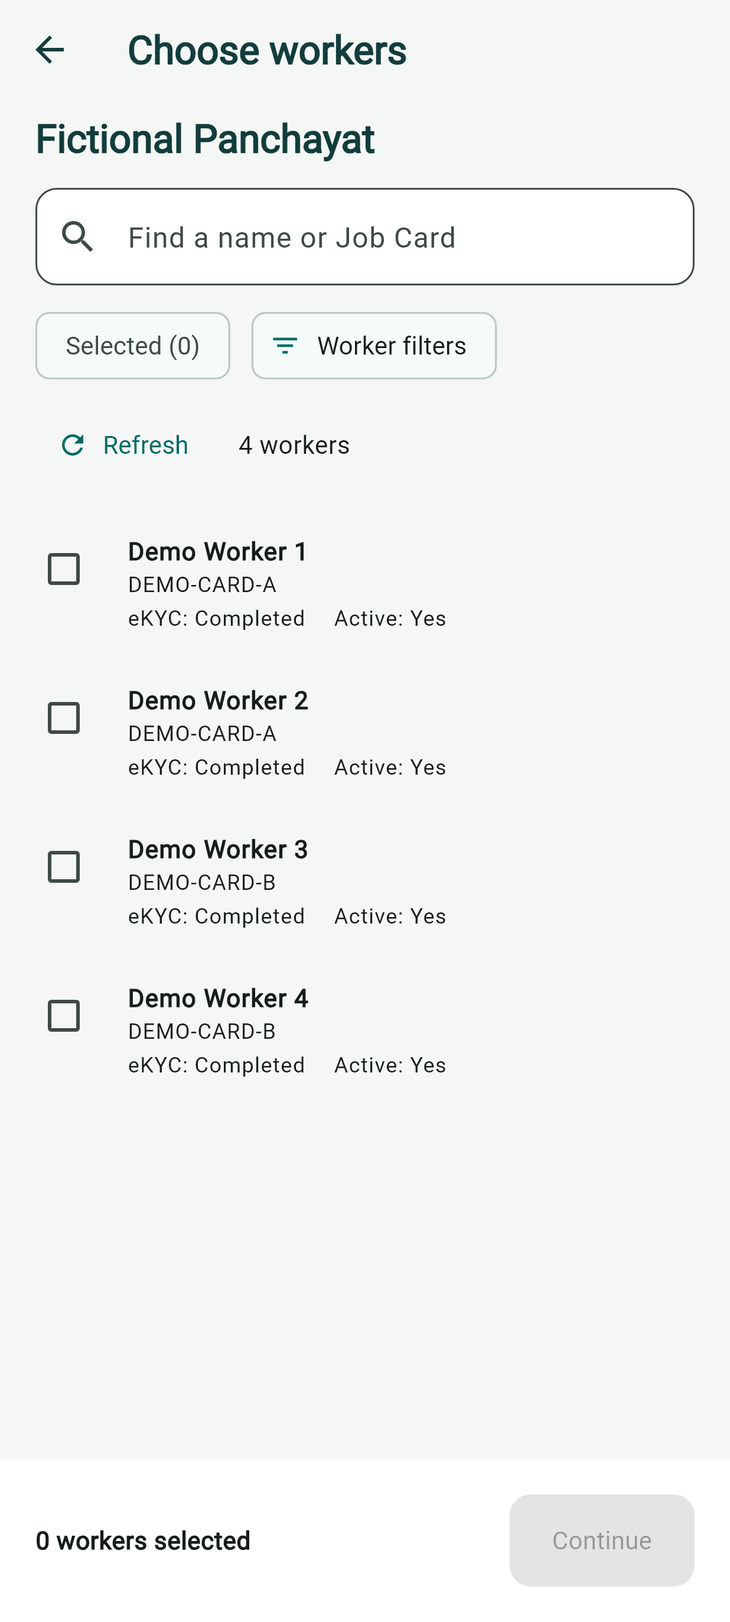
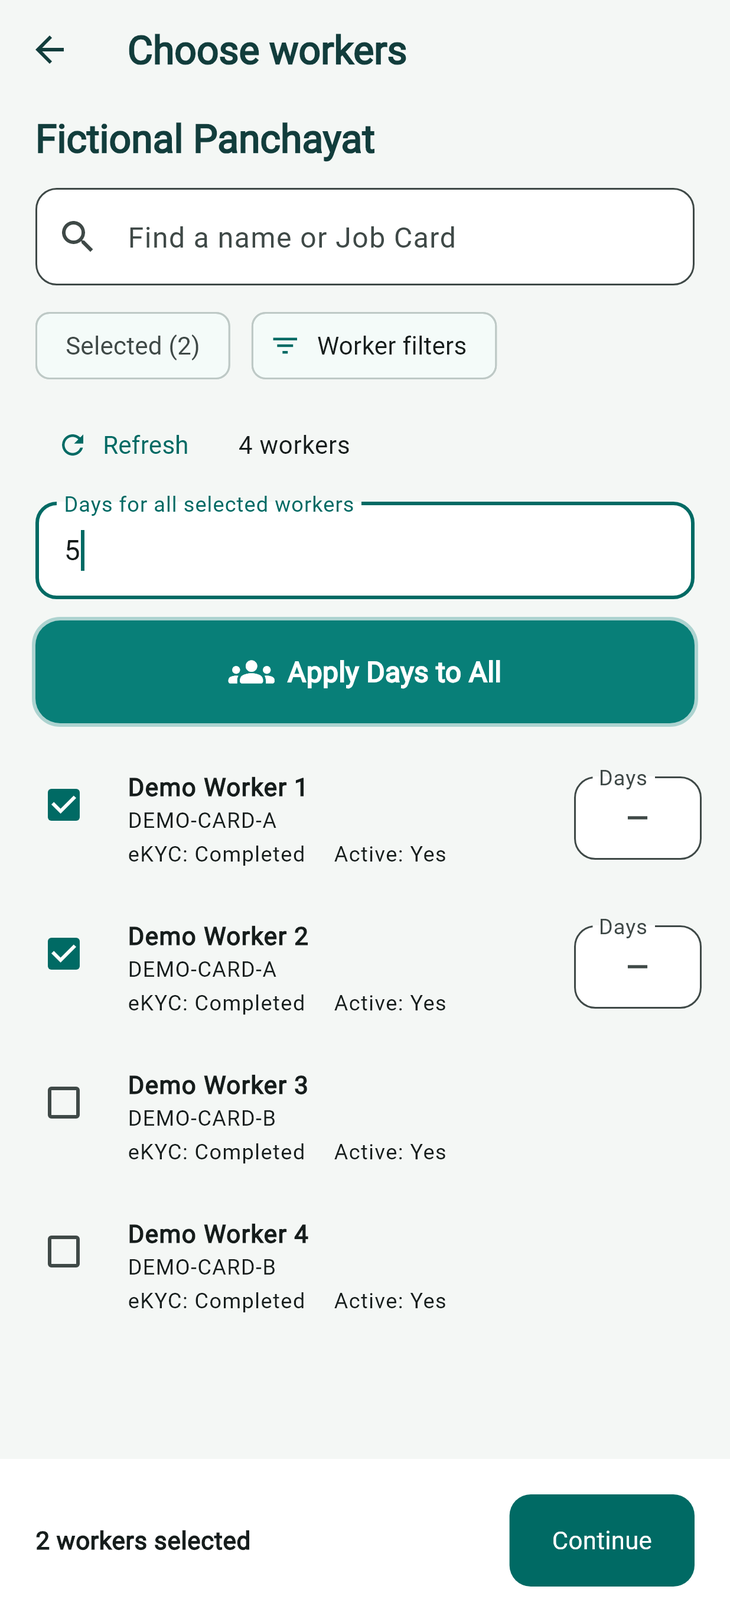
Refresh app showcase, 15 fictional previews and plain-English guides

diff --git a/README.md b/README.md
@@ -1,21 +1,29 @@
 # VBGRAMG DEO Assistant & Worker Demand
 
-**From a worker request to a checked Work Demand, with the office in control.**
+**Prepare worker requests on Android. Check Work Demands and manage records on Windows or Linux.**
 
 VBGRAMG DEO Assistant helps Data Entry Operators (DEOs) organise Job Cards, workers, work requests and Muster Roll reports. The companion **Worker Demand** Android app lets DEOs and Panchayat Secretaries prepare requests from their assigned areas.
 
-[Get the apps](https://changtey.github.io/Worker-Demand-releases/) · [User guide](docs/USER_GUIDE.md) · [Features](docs/FEATURES.md) · [Latest changes](docs/LATEST_CHANGES.md)
+[Get the apps](#download) · [User guide](docs/USER_GUIDE.md) · [Features](docs/FEATURES.md) · [Latest changes](docs/LATEST_CHANGES.md)
+
+| For the office | For the phone |
+| --- | --- |
+| **VBGRAMG DEO Assistant · Windows and Linux** | **Worker Demand · Android** |
+| Find Job Cards, check workers and dates, review requests and prepare attendance reports. | Choose assigned workers, enter their requested days and send a request to the office. |
+| Use your own office account and the portal's current area lists. | Use the private login code assigned by your DEO. |
 
 ## Download
 
-Published downloads: desktop **1.4.11**, Android **1.4.11**.
+Published downloads: desktop **1.4.13**, Android **1.4.13**.
 
-- [Windows 64-bit](https://github.com/Changtey/Worker-Demand-releases/releases/download/v1.4.11/VBGRAMG-DEO-Assistant-1.4.11-Setup.exe)
-- [Linux Debian / Ubuntu](https://github.com/Changtey/Worker-Demand-releases/releases/download/v1.4.11/VBGRAMG-DEO-Assistant-1.4.11-Linux-x64.deb)
-- [Linux AppImage](https://github.com/Changtey/Worker-Demand-releases/releases/download/v1.4.11/VBGRAMG-DEO-Assistant-1.4.11-Linux-x64.AppImage)
-- [Android APK](https://github.com/Changtey/Worker-Demand-releases/releases/download/v1.4.11/Worker-Demand-1.4.11.apk)
+| Device | Download |
+| --- | --- |
+| Windows 64-bit | [Download 1.4.13](https://github.com/Changtey/Worker-Demand-releases/releases/download/v1.4.13/VBGRAMG-DEO-Assistant-1.4.13-Setup.exe) |
+| Linux Debian / Ubuntu | [Download 1.4.13](https://github.com/Changtey/Worker-Demand-releases/releases/download/v1.4.13/VBGRAMG-DEO-Assistant-1.4.13-Linux-x64.deb) |
+| Linux AppImage | [Download 1.4.13](https://github.com/Changtey/Worker-Demand-releases/releases/download/v1.4.13/VBGRAMG-DEO-Assistant-1.4.13-Linux-x64.AppImage) |
+| Android APK | [Download 1.4.13](https://github.com/Changtey/Worker-Demand-releases/releases/download/v1.4.13/Worker-Demand-1.4.13.apk) |
 
-[Release notes and checksums](https://github.com/Changtey/Worker-Demand-releases/releases/tag/v1.4.11).
+[Release notes and checksums](https://github.com/Changtey/Worker-Demand-releases/releases/tag/v1.4.13).
 
 Check the linked release notes for tested systems and remaining limits. Windows publisher signing is still pending for the current test release.
 
@@ -32,35 +40,35 @@ The app follows the portal's offered **State → District → Block → Panchaya
 
 ## See the app
 
-**Current source preview · 2026-10-23.** Desktop source 1.4.12; Android source 1.4.11. The desktop pictures include newer changes that are not in the downloads above. The same Android version number does not prove that a source screen matches an older APK.
+**Screens captured for desktop 1.4.13 and Android 1.4.13 · 2026-10-23.**
 
-All 15 pictures use fictional records. **Android** pictures show the current Android app widgets at phone size. **Desktop preview** pictures show the current desktop app in a narrow layout; they do not imply that desktop tools are available in Android. Open any picture for the full size. These are screen previews, not a live account or official submission.
+All 15 pictures use fictional records. **Android** pictures show the current Android screens at phone size. **Desktop preview** pictures show the current desktop app in a narrow window; they do not mean that desktop tools are available in Android. Open any picture for the full size. The pictures do not show a real office account or an official submission.
 
 <table>
 <tr>
-<td width="33%" valign="top"><b>Your Android home</b><br><sub>Android</sub><br><a href="docs/screenshots/01-dashboard.png"><img src="docs/screenshots/01-dashboard.png" width="260" alt="Android: Your Android home"></a><br>See assigned areas and start a work request.</td>
-<td width="33%" valign="top"><b>Personal Android access</b><br><sub>Desktop preview</sub><br><a href="docs/screenshots/02-android-login.png"><img src="docs/screenshots/02-android-login.png" width="260" alt="Desktop preview: Personal Android access"></a><br>Choose the areas available to your DEO account. No login code is shown.</td>
-<td width="33%" valign="top"><b>Secretary access</b><br><sub>Desktop preview</sub><br><a href="docs/screenshots/03-secretary-access.png"><img src="docs/screenshots/03-secretary-access.png" width="260" alt="Desktop preview: Secretary access"></a><br>Assign a Panchayat or Village and create a Secretary login code.</td>
+<td width="33%" valign="top"><b>01. Your Android home</b><br><sub>Android</sub><br><a href="docs/screenshots/01-dashboard.png"><img src="docs/screenshots/01-dashboard.png" width="260" alt="Android: 01. Your Android home"></a><br>See assigned areas and start a work request.</td>
+<td width="33%" valign="top"><b>02. Personal Android access</b><br><sub>Desktop preview</sub><br><a href="docs/screenshots/02-android-login.png"><img src="docs/screenshots/02-android-login.png" width="260" alt="Desktop preview: 02. Personal Android access"></a><br>Choose the areas available to your DEO account. No login code is shown.</td>
+<td width="33%" valign="top"><b>03. Secretary access</b><br><sub>Desktop preview</sub><br><a href="docs/screenshots/03-secretary-access.png"><img src="docs/screenshots/03-secretary-access.png" width="260" alt="Desktop preview: 03. Secretary access"></a><br>Assign a Panchayat or Village and create a Secretary login code.</td>
 </tr>
 <tr>
-<td width="33%" valign="top"><b>Browser controls</b><br><sub>Desktop preview</sub><br><a href="docs/screenshots/04-integrated-browser.png"><img src="docs/screenshots/04-integrated-browser.png" width="260" alt="Desktop preview: Browser controls"></a><br>Open VBGRAMG from the desktop app. The official website is not pictured.</td>
-<td width="33%" valign="top"><b>Review a phone request</b><br><sub>Android</sub><br><a href="docs/screenshots/05-android-work-demand.png"><img src="docs/screenshots/05-android-work-demand.png" width="260" alt="Android: Review a phone request"></a><br>Review workers and their own requested days before sending to the DEO.</td>
-<td width="33%" valign="top"><b>Secretary request history</b><br><sub>Android</sub><br><a href="docs/screenshots/06-secretary-work-demand.png"><img src="docs/screenshots/06-secretary-work-demand.png" width="260" alt="Android: Secretary request history"></a><br>Find requests and follow the status returned by the office.</td>
+<td width="33%" valign="top"><b>04. Browser controls</b><br><sub>Desktop preview</sub><br><a href="docs/screenshots/04-integrated-browser.png"><img src="docs/screenshots/04-integrated-browser.png" width="260" alt="Desktop preview: 04. Browser controls"></a><br>Open VBGRAMG from the desktop app. The official website is not pictured.</td>
+<td width="33%" valign="top"><b>05. Review a phone request</b><br><sub>Android</sub><br><a href="docs/screenshots/05-android-work-demand.png"><img src="docs/screenshots/05-android-work-demand.png" width="260" alt="Android: 05. Review a phone request"></a><br>Review workers and their own requested days before sending to the DEO.</td>
+<td width="33%" valign="top"><b>06. Secretary request history</b><br><sub>Android</sub><br><a href="docs/screenshots/06-secretary-work-demand.png"><img src="docs/screenshots/06-secretary-work-demand.png" width="260" alt="Android: 06. Secretary request history"></a><br>Find requests and follow the status returned by the office.</td>
 </tr>
 <tr>
-<td width="33%" valign="top"><b>Job Card households</b><br><sub>Desktop preview</sub><br><a href="docs/screenshots/07-job-card-holders.png"><img src="docs/screenshots/07-job-card-holders.png" width="260" alt="Desktop preview: Job Card households"></a><br>Find household heads and open the members of a Job Card. Swipe the table for more columns.</td>
-<td width="33%" valign="top"><b>Choose workers</b><br><sub>Android</sub><br><a href="docs/screenshots/08-worker-list.png"><img src="docs/screenshots/08-worker-list.png" width="260" alt="Android: Choose workers"></a><br>Search the assigned worker list and review saved checks.</td>
-<td width="33%" valign="top"><b>Worker filters</b><br><sub>Desktop preview</sub><br><a href="docs/screenshots/09-worker-search.png"><img src="docs/screenshots/09-worker-search.png" width="260" alt="Desktop preview: Worker filters"></a><br>Keep the list compact with saved status and identity check choices.</td>
+<td width="33%" valign="top"><b>07. Job Card households</b><br><sub>Desktop preview</sub><br><a href="docs/screenshots/07-job-card-holders.png"><img src="docs/screenshots/07-job-card-holders.png" width="260" alt="Desktop preview: 07. Job Card households"></a><br>Find household heads and open the members of a Job Card. Swipe the table for more columns.</td>
+<td width="33%" valign="top"><b>08. Choose workers and days</b><br><sub>Android</sub><br><a href="docs/screenshots/08-worker-list.png"><img src="docs/screenshots/08-worker-list.png" width="260" alt="Android: 08. Choose workers and days"></a><br>Choose workers, enter days, then use the wide teal Apply Days to All button when their days are the same.</td>
+<td width="33%" valign="top"><b>09. Worker filters</b><br><sub>Desktop preview</sub><br><a href="docs/screenshots/09-worker-search.png"><img src="docs/screenshots/09-worker-search.png" width="260" alt="Desktop preview: 09. Worker filters"></a><br>Keep the list compact with saved status and identity check choices.</td>
 </tr>
 <tr>
-<td width="33%" valign="top"><b>Days and dates</b><br><sub>Desktop preview</sub><br><a href="docs/screenshots/10-work-demand-entry.png"><img src="docs/screenshots/10-work-demand-entry.png" width="260" alt="Desktop preview: Days and dates"></a><br>Set an Application Date, requested days and work dates.</td>
-<td width="33%" valign="top"><b>Check demand issues</b><br><sub>Desktop preview</sub><br><a href="docs/screenshots/11-check-demand.png"><img src="docs/screenshots/11-check-demand.png" width="260" alt="Desktop preview: Check demand issues"></a><br>See the worker and the reason when a demand needs attention.</td>
-<td width="33%" valign="top"><b>Review and send</b><br><sub>Desktop preview</sub><br><a href="docs/screenshots/12-worker-management.png"><img src="docs/screenshots/12-worker-management.png" width="260" alt="Desktop preview: Review and send"></a><br>Check the received list, then choose Submit to VBGRAMG. No separate Approve button.</td>
+<td width="33%" valign="top"><b>10. Days and dates</b><br><sub>Desktop preview</sub><br><a href="docs/screenshots/10-work-demand-entry.png"><img src="docs/screenshots/10-work-demand-entry.png" width="260" alt="Desktop preview: 10. Days and dates"></a><br>Set an Application Date, requested days and work dates.</td>
+<td width="33%" valign="top"><b>11. Check demand issues</b><br><sub>Desktop preview</sub><br><a href="docs/screenshots/11-check-demand.png"><img src="docs/screenshots/11-check-demand.png" width="260" alt="Desktop preview: 11. Check demand issues"></a><br>See the worker and the reason when a demand needs attention.</td>
+<td width="33%" valign="top"><b>12. Review and send</b><br><sub>Desktop preview</sub><br><a href="docs/screenshots/12-worker-management.png"><img src="docs/screenshots/12-worker-management.png" width="260" alt="Desktop preview: 12. Review and send"></a><br>Check the received list, then choose Submit to VBGRAMG. No separate Approve button.</td>
 </tr>
 <tr>
-<td width="33%" valign="top"><b>Muster Roll Reports</b><br><sub>Desktop preview</sub><br><a href="docs/screenshots/13-muster-reports.png"><img src="docs/screenshots/13-muster-reports.png" width="260" alt="Desktop preview: Muster Roll Reports"></a><br>Choose Panchayats and Villages for the official attendance reports.</td>
-<td width="33%" valign="top"><b>Your menus</b><br><sub>Desktop preview</sub><br><a href="docs/screenshots/14-settings.png"><img src="docs/screenshots/14-settings.png" width="260" alt="Desktop preview: Your menus"></a><br>Choose which menus appear and arrange the app for daily work.</td>
-<td width="33%" valign="top"><b>Your Android account</b><br><sub>Android</sub><br><a href="docs/screenshots/15-my-account.png"><img src="docs/screenshots/15-my-account.png" width="260" alt="Android: Your Android account"></a><br>Check your role and assigned area, or sign out of the phone.</td>
+<td width="33%" valign="top"><b>13. Muster Roll Reports</b><br><sub>Desktop preview</sub><br><a href="docs/screenshots/13-muster-reports.png"><img src="docs/screenshots/13-muster-reports.png" width="260" alt="Desktop preview: 13. Muster Roll Reports"></a><br>Choose Panchayats and Villages for the official attendance reports.</td>
+<td width="33%" valign="top"><b>14. Your menus</b><br><sub>Desktop preview</sub><br><a href="docs/screenshots/14-settings.png"><img src="docs/screenshots/14-settings.png" width="260" alt="Desktop preview: 14. Your menus"></a><br>Choose which menus appear and arrange the app for daily work.</td>
+<td width="33%" valign="top"><b>15. Your Android account</b><br><sub>Android</sub><br><a href="docs/screenshots/15-my-account.png"><img src="docs/screenshots/15-my-account.png" width="260" alt="Android: 15. Your Android account"></a><br>Check your role and assigned area, or sign out of the phone.</td>
 </tr>
 </table>
 
@@ -72,7 +80,15 @@ All 15 pictures use fictional records. **Android** pictures show the current And
 4. In Android, enter the assigned code, choose workers, enter days and dates, review, then choose **Submit request**. The request goes to the office.
 5. In desktop, open **Work Demand Request from Android/ Secretary** or **Work Demand Data Entry**. Check the workers and resolve the reported issues before the next portal action.
 
-The [step-by-step guide](docs/USER_GUIDE.md) explains the Browser, worker checks, reports and settings, including differences between the published release and newer previews.
+### Try one request
+
+**On Android:** Choose workers → enter the days → press **Apply Days to All** if everyone needs the same number → **Continue** → review → **Submit request**.
+
+**In the office:** Open the received request → check the area, workers and dates → **Check demand** → correct any issues → review before **Submit to VBGRAMG**.
+
+**For attendance reports:** Open **Muster Roll Reports** on desktop → choose Panchayats and Villages → review the report choices → save the finished PDF or Excel file.
+
+The [step-by-step guide](docs/USER_GUIDE.md) has short tutorials for the Browser, worker checks, Android access, requests, reports and settings.
 
 ## Know what has been saved
 
@@ -82,20 +98,13 @@ Use only areas and records you are authorised to access. Enter the portal Securi
 
 ## Current changes
 
-**Published 1.4.11**
+**Published 1.4.13**
 
-- Fixed an Electron startup error caused by a repeated CASTES line in an older packaged file. Rebuilt the app and its supporting program from one saved copy. Release builds now check that every desktop script opens correctly and matches that copy.
-- Made Work Demand worker matching and approval checks clearer. If a worker cannot be selected, the screen explains what to check. Approval remains visible when the worker review cannot be opened.
-- Made unknown worker days and unconfirmed shared Job Card days say “Not known” instead of showing only a dash.
-- Improved Muster Roll Reports. Category filters, page groups, search, sorting and saved choices are easier to review before making a PDF. Excel, PDF and print copies remain available.
-- Added searchable multi-select Panchayat and Village lists for Android access. Assigned areas can be selected and removed together, after one confirmation. Existing records are kept.
-- Updated Secretary login-code checks. Codes can use letters, numbers and symbols, with spaces inside the code. Codes must be 4 to 32 characters, and the same code cannot belong to two DEOs.
-
-**23 October 2026 source improvements**
-
-- Two actions for received requests: **Check demand → Submit to VBGRAMG**.
-- Compact worker filters and nearby search, list and send controls.
-- Safer area matching for received Android requests, using the full area path.
-- A new illustrated guide and 15 current app previews.
+- Made Android&#x27;s **Apply Days to All** button easier to find on both screens. It has a wide teal background, bold white words, a group picture and a larger touch area.
+- Made large desktop worker lists quicker to sort and search. Names, Job Cards and entered days keep their existing values.
+- Made Android read assigned worker lists more quickly, with the selected area first. Recent complete lists are reused, and changing accounts stops further reading for the old account.
+- Simplified received-request actions to **Check demand → Submit to VBGRAMG**. Worker filters and nearby search and send controls take less space.
+- Improved matching between Android requests and their full State, District, Block, Panchayat and Village details.
+- Added a refreshed illustrated guide with 15 numbered Android and desktop pictures, download links and short tutorials in plain English.
 
 See [latest changes and their release status](docs/LATEST_CHANGES.md). The public repository holds downloads and guides. App building files and office records stay on the owner's computer.

diff --git a/docs/LATEST_CHANGES.md b/docs/LATEST_CHANGES.md
@@ -2,43 +2,38 @@
 
 [Home](../README.md) · [User guide](USER_GUIDE.md) · [Features](FEATURES.md)
 
-**Current source preview · 2026-10-23.** Desktop source 1.4.12; Android source 1.4.11. The desktop pictures include newer changes that are not in the downloads above. The same Android version number does not prove that a source screen matches an older APK.
+**Screens captured for desktop 1.4.13 and Android 1.4.13 · 2026-10-23.**
 
 ## Published apps
 
-Published downloads: desktop **1.4.11**, Android **1.4.11**.
+Published downloads: desktop **1.4.13**, Android **1.4.13**.
 
-- [Windows 64-bit](https://github.com/Changtey/Worker-Demand-releases/releases/download/v1.4.11/VBGRAMG-DEO-Assistant-1.4.11-Setup.exe)
-- [Linux Debian / Ubuntu](https://github.com/Changtey/Worker-Demand-releases/releases/download/v1.4.11/VBGRAMG-DEO-Assistant-1.4.11-Linux-x64.deb)
-- [Linux AppImage](https://github.com/Changtey/Worker-Demand-releases/releases/download/v1.4.11/VBGRAMG-DEO-Assistant-1.4.11-Linux-x64.AppImage)
-- [Android APK](https://github.com/Changtey/Worker-Demand-releases/releases/download/v1.4.11/Worker-Demand-1.4.11.apk)
+| Device | Download |
+| --- | --- |
+| Windows 64-bit | [Download 1.4.13](https://github.com/Changtey/Worker-Demand-releases/releases/download/v1.4.13/VBGRAMG-DEO-Assistant-1.4.13-Setup.exe) |
+| Linux Debian / Ubuntu | [Download 1.4.13](https://github.com/Changtey/Worker-Demand-releases/releases/download/v1.4.13/VBGRAMG-DEO-Assistant-1.4.13-Linux-x64.deb) |
+| Linux AppImage | [Download 1.4.13](https://github.com/Changtey/Worker-Demand-releases/releases/download/v1.4.13/VBGRAMG-DEO-Assistant-1.4.13-Linux-x64.AppImage) |
+| Android APK | [Download 1.4.13](https://github.com/Changtey/Worker-Demand-releases/releases/download/v1.4.13/Worker-Demand-1.4.13.apk) |
 
-[Release notes and checksums](https://github.com/Changtey/Worker-Demand-releases/releases/tag/v1.4.11).
+[Release notes and checksums](https://github.com/Changtey/Worker-Demand-releases/releases/tag/v1.4.13).
 
 The linked release notes describe what was built, checked and published. A current source picture does not update an installed app or replace an installation file.
 
 ## Changes in this release
 
-**Published 1.4.11**
+**Published 1.4.13**
 
-- Fixed an Electron startup error caused by a repeated CASTES line in an older packaged file. Rebuilt the app and its supporting program from one saved copy. Release builds now check that every desktop script opens correctly and matches that copy.
-- Made Work Demand worker matching and approval checks clearer. If a worker cannot be selected, the screen explains what to check. Approval remains visible when the worker review cannot be opened.
-- Made unknown worker days and unconfirmed shared Job Card days say “Not known” instead of showing only a dash.
-- Improved Muster Roll Reports. Category filters, page groups, search, sorting and saved choices are easier to review before making a PDF. Excel, PDF and print copies remain available.
-- Added searchable multi-select Panchayat and Village lists for Android access. Assigned areas can be selected and removed together, after one confirmation. Existing records are kept.
-- Updated Secretary login-code checks. Codes can use letters, numbers and symbols, with spaces inside the code. Codes must be 4 to 32 characters, and the same code cannot belong to two DEOs.
+- Made Android&#x27;s **Apply Days to All** button easier to find on both screens. It has a wide teal background, bold white words, a group picture and a larger touch area.
+- Made large desktop worker lists quicker to sort and search. Names, Job Cards and entered days keep their existing values.
+- Made Android read assigned worker lists more quickly, with the selected area first. Recent complete lists are reused, and changing accounts stops further reading for the old account.
+- Simplified received-request actions to **Check demand → Submit to VBGRAMG**. Worker filters and nearby search and send controls take less space.
+- Improved matching between Android requests and their full State, District, Block, Panchayat and Village details.
+- Added a refreshed illustrated guide with 15 numbered Android and desktop pictures, download links and short tutorials in plain English.
 
-**23 October 2026 source improvements**
-
-- Two actions for received requests: **Check demand → Submit to VBGRAMG**.
-- Compact worker filters and nearby search, list and send controls.
-- Safer area matching for received Android requests, using the full area path.
-- A new illustrated guide and 15 current app previews.
-
-These desktop changes are shown as previews. No new installer is published by this documentation update.
+These pictures were refreshed from the source used for this publication.
 
 ## How the guide stays current
 
-The local release process captures the current Android widgets and a fresh desktop screen build, using only fictional replies. It rebuilds the README and guides, checks all 15 pictures and their links, and records the source and picture checks in [SCREENSHOTS.json](SCREENSHOTS.json). Changed code or missing pictures stop publication until the gallery is refreshed.
+Before publication, the release process takes new pictures of the Android and desktop screens using separate fictional records. It refreshes the introduction and guides, checks all 15 pictures and their links, and saves the picture details in [SCREENSHOTS.json](SCREENSHOTS.json). A changed app or missing picture stops publication until the gallery is refreshed.
 
-The Android screen checks do not establish physical-device coverage. Fictional area checks do not establish live coverage of every State. Real office records, passwords, Security Codes and login codes are excluded from the gallery. Building files stay on the owner's computer.
+The Android screen checks do not prove that the app was installed on a phone. Example area checks do not prove live use in every State. Real office records, passwords, Security Codes and login codes are excluded from the gallery. App building files stay on the owner's computer.

diff --git a/docs/USER_GUIDE.md b/docs/USER_GUIDE.md
@@ -2,26 +2,28 @@
 
 [Home](../README.md) · [Feature list](FEATURES.md) · [Latest changes](LATEST_CHANGES.md)
 
-**Current source preview · 2026-10-23.** Desktop source 1.4.12; Android source 1.4.11. The desktop pictures include newer changes that are not in the downloads above. The same Android version number does not prove that a source screen matches an older APK.
+**Screens captured for desktop 1.4.13 and Android 1.4.13 · 2026-10-23.**
 
 Screenshots use fictional people and areas. Android and desktop are labelled separately. Your assigned areas and the portal's current lists determine what you can see.
 
 ## 1. Install and sign in
 
-1. Open the [download page](https://changtey.github.io/Worker-Demand-releases/). Choose Windows, Linux or Android for your device.
+1. Open the [app downloads](https://github.com/Changtey/Worker-Demand-releases#download). Choose Windows, Linux or Android for your device.
 2. Keep your existing app and saved records when updating. See the release notes for installation checks and known limits.
 3. On desktop, use **Sign in with Google** and finish in your computer's usual browser. This is separate from your official portal login.
 4. In **Settings → Login area**, choose your State, Financial Year, District and Block from the current lists. Save the area.
 5. Use **Show menu** on a narrow screen to open the app's menus. If an optional menu is hidden, show it in **Settings → Sidebar menus**.
 
-Published downloads: desktop **1.4.11**, Android **1.4.11**.
+Published downloads: desktop **1.4.13**, Android **1.4.13**.
 
-- [Windows 64-bit](https://github.com/Changtey/Worker-Demand-releases/releases/download/v1.4.11/VBGRAMG-DEO-Assistant-1.4.11-Setup.exe)
-- [Linux Debian / Ubuntu](https://github.com/Changtey/Worker-Demand-releases/releases/download/v1.4.11/VBGRAMG-DEO-Assistant-1.4.11-Linux-x64.deb)
-- [Linux AppImage](https://github.com/Changtey/Worker-Demand-releases/releases/download/v1.4.11/VBGRAMG-DEO-Assistant-1.4.11-Linux-x64.AppImage)
-- [Android APK](https://github.com/Changtey/Worker-Demand-releases/releases/download/v1.4.11/Worker-Demand-1.4.11.apk)
+| Device | Download |
+| --- | --- |
+| Windows 64-bit | [Download 1.4.13](https://github.com/Changtey/Worker-Demand-releases/releases/download/v1.4.13/VBGRAMG-DEO-Assistant-1.4.13-Setup.exe) |
+| Linux Debian / Ubuntu | [Download 1.4.13](https://github.com/Changtey/Worker-Demand-releases/releases/download/v1.4.13/VBGRAMG-DEO-Assistant-1.4.13-Linux-x64.deb) |
+| Linux AppImage | [Download 1.4.13](https://github.com/Changtey/Worker-Demand-releases/releases/download/v1.4.13/VBGRAMG-DEO-Assistant-1.4.13-Linux-x64.AppImage) |
+| Android APK | [Download 1.4.13](https://github.com/Changtey/Worker-Demand-releases/releases/download/v1.4.13/Worker-Demand-1.4.13.apk) |
 
-[Release notes and checksums](https://github.com/Changtey/Worker-Demand-releases/releases/tag/v1.4.11).
+[Release notes and checksums](https://github.com/Changtey/Worker-Demand-releases/releases/tag/v1.4.13).
 
 ## 2. Create your personal Android access
 
@@ -72,7 +74,7 @@ Job Card members share the household's days left. A missing total means **Not kn
 
 1. On **Home**, check your account and assigned Panchayat or Village. A DEO can choose among their assigned areas.
 2. Choose **Create work request**. Search by worker or Job Card and choose the workers.
-3. Review saved checks. Set each selected worker's requested days, or apply days to the selected workers together.
+3. Review saved checks. Set each selected worker's requested days, or enter days above the wide teal **Apply Days to All** button and press it to use those days for every selected worker.
 4. Continue to the work details. Enter the start date and the other requested details. Choose a saved work if needed.
 5. Review the workers, days and dates, then choose **Submit request** to send it to the DEO.
 6. Open **History** for the received status. A draft is a saved phone copy. An offline request waits for a connection using its existing request number.
@@ -80,6 +82,10 @@ Job Card members share the household's days left. A missing total means **Not kn
 If access has ended, sign in again with a current code from the DEO. Some actions require a connection or a recent access check. A phone request is not an official portal Work Demand.
 
 <img src="screenshots/05-android-work-demand.png" width="300" alt="Android: review of a fictional request before Submit request">
+
+**Use the same days for several workers:** Select the workers, enter a number in **Days for all selected workers**, then press **Apply Days to All**. Check the Days box beside each name. You can still change one worker's days separately.
+
+<img src="screenshots/08-worker-list.png" width="300" alt="Android: selected fictional workers and the teal Apply Days to All button">
 
 ## 7. Prepare and check a demand on desktop
 
@@ -92,7 +98,7 @@ For a new list, open **Work Demand Data Entry**. For a received list, open **Wor
 5. Use the available add or remove controls to change this demand's worker list. Removing someone from a demand does not delete their Job Card record.
 6. Choose **Check demand**. Read the named worker and reason for every issue. Correct dates or selections, or update the saved checks, then check again.
 
-In the pictured desktop workflow, a received request has two actions: **Check demand → Submit to VBGRAMG**. There is no separate Approve button. Changes to workers or dates need a new check. The published 1.4.11 desktop release may still show **Approve request** between checking and portal entry; that button is not an official portal submission.
+In the pictured desktop workflow, a received request has two actions: **Check demand → Submit to VBGRAMG**. There is no separate Approve button. Changes to workers or dates need a new check. 
 
 Choose **Save Changes** if you only want to keep a request draft. Reports use the saved request; save corrections before downloading the request's Excel or PDF.
 

diff --git a/docs/FEATURES.md b/docs/FEATURES.md
@@ -2,7 +2,7 @@
 
 [Home](../README.md) · [User guide](USER_GUIDE.md) · [Latest changes](LATEST_CHANGES.md)
 
-**Current source preview · 2026-10-23.** Desktop source 1.4.12; Android source 1.4.11. The desktop pictures include newer changes that are not in the downloads above. The same Android version number does not prove that a source screen matches an older APK.
+**Screens captured for desktop 1.4.13 and Android 1.4.13 · 2026-10-23.**
 
 | Feature | Desktop | Android |
 | --- | --- | --- |
@@ -11,7 +11,7 @@
 | Secretary access | Create and manage assigned area codes | Sign in with the code and view assigned records |
 | Job Cards and members | Village records, household groups, search, saved checks and days left | Assigned worker list with Job Card numbers |
 | Worker filters | Status, work history, identity and payment checks | Available worker check choices in the phone list |
-| Days and dates | Individual worker values and bulk editing | Individual worker days and request dates |
+| Days and dates | Individual worker values and bulk editing | Individual worker days, request dates and a large Apply Days to All button |
 | Work requests | Read received requests, correct, return or reject with a reason, and follow entry | Prepare, review, send and follow requests; available changes depend on status |
 | Check demand | Check workers, dates, days, selected work and reported issues | Review the assigned workers and request before sending to the office |
 | Official portal Browser | Open the portal and follow checked entry | Official portal entry is handled by the desktop office workflow |
@@ -32,7 +32,7 @@ The app uses the portal's current State, District, Block, Panchayat and Village 
 
 ## What these previews prove
 
-The gallery comes from the current Android widgets and a fresh desktop screen build, with fictional replies in an isolated session. No real account, login code or official submission appears in the pictures. The Android pictures are widget captures at phone size; they are not physical-device test results. Desktop pictures show a narrow layout. Browser controls are shown without the real official website.
+The gallery shows the current Android and desktop screens with separate fictional records. No real account, login code or official submission appears in the pictures. Android pictures show the app screens at phone size; they do not prove that the app was installed on a phone. Desktop pictures show a narrow window. The Browser picture shows its controls without a real official website.
 
 Check the linked release notes for tested systems and remaining limits. Windows publisher signing is still pending for the current test release.
 
